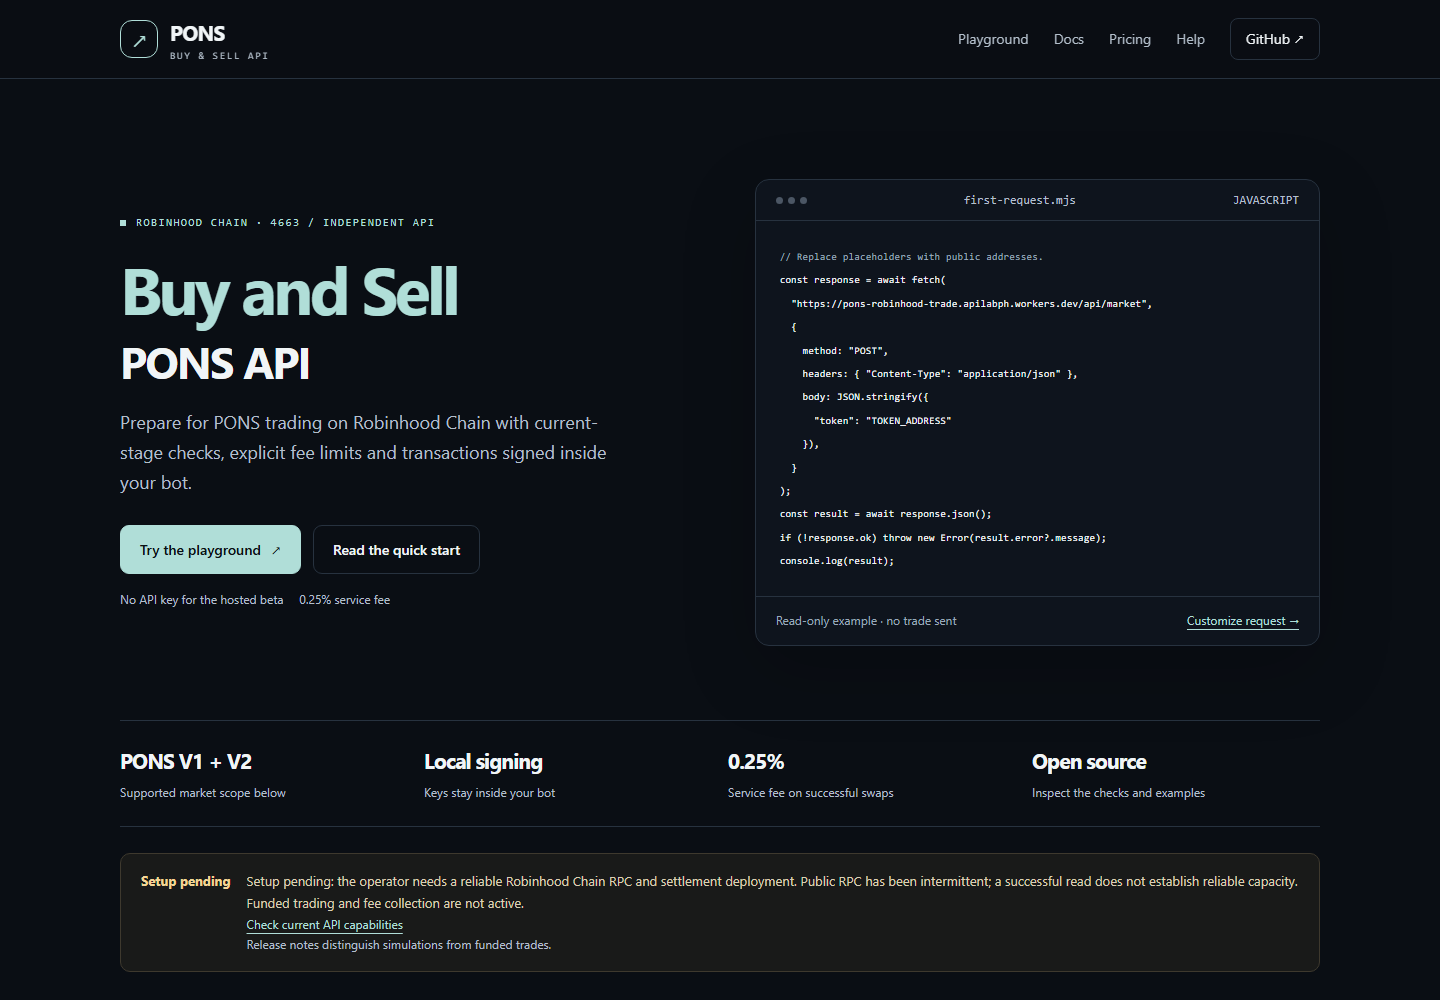
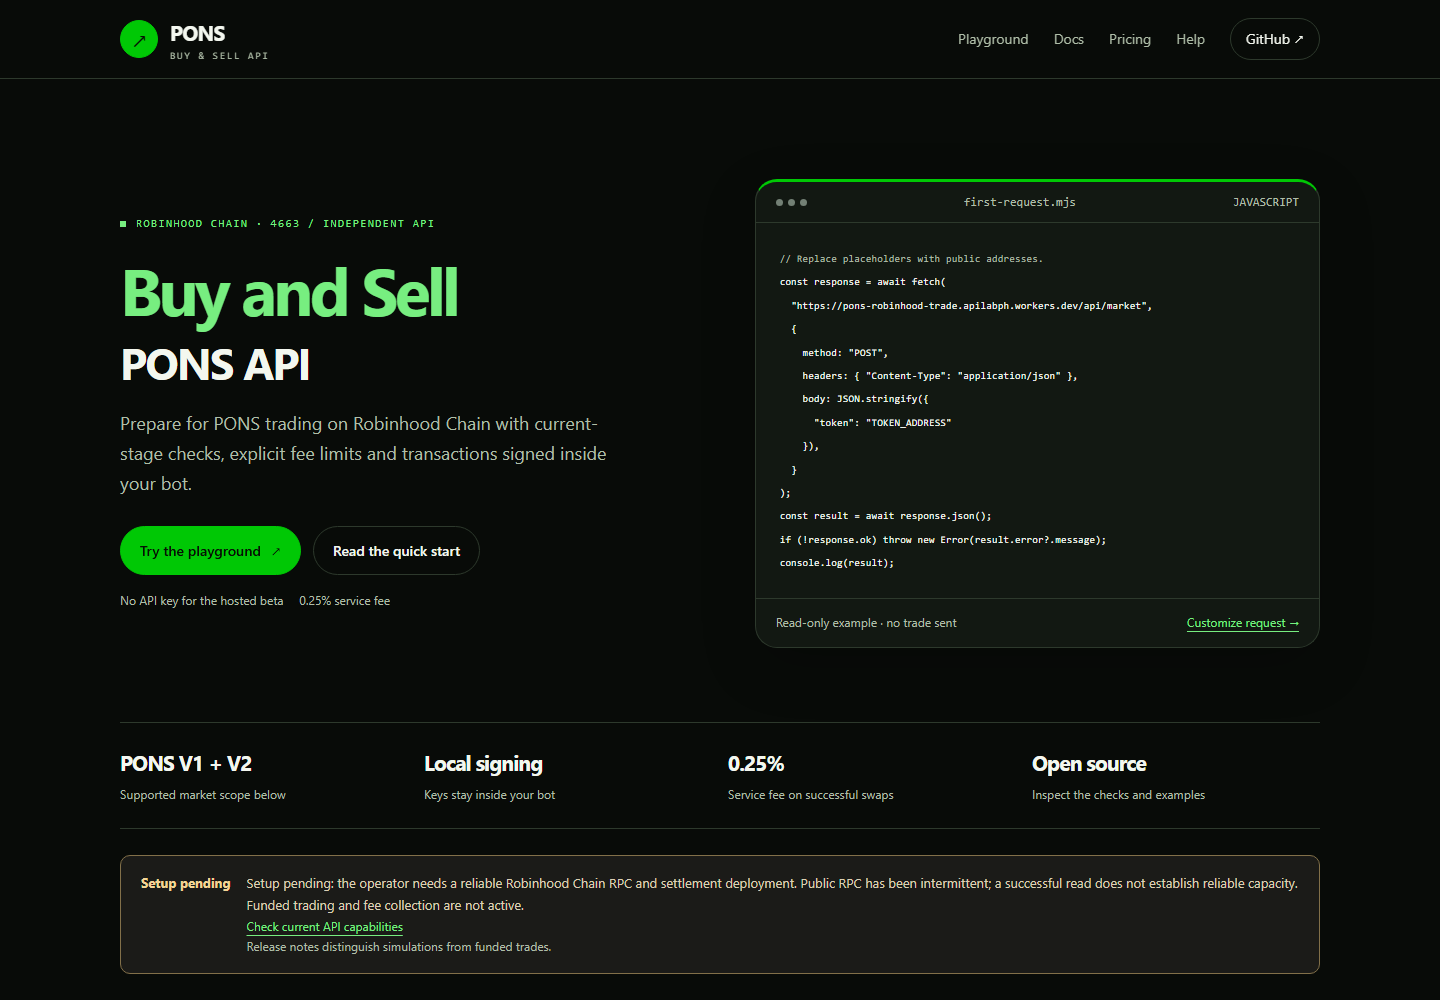
Match developer website theme to launchpad identity

diff --git a/website/style.css b/website/style.css
@@ -1,13 +1,28 @@
-:root {
+:root {
   color-scheme: dark;
-  --bg: #0a0e14;
-  --panel: #101720;
-  --line: #27323f;
-  --text: #f1f5f7;
-  --muted: #b3bfcb;
-  --accent: #aab8ff;
-  --accent-ink: #0a1014;
-  --radius: 18px;
+  --bg: #080b08;
+  --panel: #121812;
+  --surface: #0b100b;
+  --line: #2d392c;
+  --text: #f3f7ef;
+  --muted: #afbea8;
+  --accent: #77ee80;
+  --secondary: #bdff9f;
+  --action: #00c805;
+  --accent-ink: #071005;
+  --topbar: #080b08f5;
+  --control-border: #6f856a;
+  --comment: #afbea8;
+  --tab-bg: #16301a;
+  --window-dot: #738075;
+  --notice-bg: #1b1b18;
+  --notice-text: #dbcfb5;
+  --notice-title: #f3d597;
+  --notice-border: #827049;
+  --error: #ffb8ac;
+  --success: #b5e9d2;
+  --radius: 22px;
+  --button-radius: 999px;
   font-family:
     Inter,
     ui-sans-serif,
@@ -69,8 +84,8 @@ button:disabled {
   position: absolute;
   left: 16px;
   top: -80px;
-  background: var(--accent);
-  color: #000;
+  background: var(--action);
+  color: var(--accent-ink);
   padding: 10px;
   z-index: 10;
 }
@@ -79,7 +94,7 @@ button:disabled {
 }
 .topbar {
   border-bottom: 1px solid var(--line);
-  background: #0a0e14f5;
+  background: var(--topbar);
   position: sticky;
   top: 0;
   z-index: 5;
@@ -201,7 +216,7 @@ button:disabled {
   gap: 10px;
   text-decoration: none;
   border: 1px solid var(--line);
-  border-radius: 9px;
+  border-radius: var(--button-radius);
   padding: 12px 19px;
   color: var(--text);
   background: transparent;
@@ -210,9 +225,9 @@ button:disabled {
   min-height: 46px;
 }
 .button.primary {
-  background: var(--accent);
+  background: var(--action);
   color: var(--accent-ink);
-  border-color: var(--accent);
+  border-color: var(--action);
 }
 .button:hover {
   filter: brightness(1.12);
@@ -229,9 +244,9 @@ button:disabled {
 .editor {
   border: 1px solid var(--line);
   border-radius: 14px;
-  background: #0e141d;
+  background: var(--panel);
   overflow: hidden;
-  box-shadow: 0 24px 75px #0003;
+  box-shadow: 0 18px 55px #0003;
   min-width: 0;
 }
 .editor-top {
@@ -255,7 +270,7 @@ button:disabled {
   width: 7px;
   height: 7px;
   border-radius: 50%;
-  background: #4b5664;
+  background: var(--window-dot);
 }
 .editor pre {
   padding: 24px;
@@ -264,7 +279,7 @@ button:disabled {
   line-height: 1.95;
 }
 .comment {
-  color: #9aa9ba;
+  color: var(--comment);
 }
 .syntax {
   color: var(--accent);
@@ -317,15 +332,15 @@ code {
   gap: 16px;
   align-items: flex-start;
   font-size: 13px;
-  color: #dbcfb5;
-  background: #191a19;
-  border: 1px solid #3e392e;
+  color: var(--notice-text);
+  background: var(--notice-bg);
+  border: 1px solid var(--notice-border);
   border-radius: 10px;
   padding: 16px 20px;
 }
 .release b {
   white-space: nowrap;
-  color: #f3d597;
+  color: var(--notice-title);
 }
 .release p {
   margin: 0;
@@ -406,13 +421,17 @@ h3 {
 .field select {
   width: 100%;
   margin-top: 7px;
-  border: 1px solid #435262;
+  border: 1px solid var(--control-border);
   border-radius: 7px;
-  background: #0a1018;
+  background: var(--surface);
   color: var(--text);
   padding: 10px 12px;
   min-height: 44px;
   font-size: 13px;
+}
+.field input::placeholder {
+  color: var(--muted);
+  opacity: 1;
 }
 .field small {
   display: block;
@@ -449,7 +468,7 @@ h3 {
 }
 .tabs button[aria-pressed="true"] {
   color: var(--accent);
-  background: #ffffff09;
+  background: var(--tab-bg);
 }
 .code-area {
   padding: 24px;
@@ -482,7 +501,7 @@ h3 {
 .output pre {
   max-height: 320px;
   overflow: auto;
-  background: #0a1018;
+  background: var(--surface);
   padding: 14px;
   border-radius: 8px;
 }
@@ -492,17 +511,17 @@ h3 {
   margin: 10px 0;
 }
 .feedback.error {
-  color: #ffb8ac;
+  color: var(--error);
 }
 .feedback.success {
-  color: #b5e9d2;
+  color: var(--success);
 }
 .hint {
   font-size: 12px;
   line-height: 1.6;
   color: var(--muted);
   padding: 12px 14px;
-  background: #0a1018;
+  background: var(--surface);
   border-left: 2px solid var(--accent);
   border-radius: 0 6px 6px 0;
 }
@@ -590,10 +609,10 @@ h3 {
   font:
     10px ui-monospace,
     monospace;
-  border: 1px solid #545346;
+  border: 1px solid var(--notice-border);
   border-radius: 4px;
   padding: 3px 6px;
-  color: #ead296;
+  color: var(--notice-title);
   margin-left: 6px;
   white-space: nowrap;
 }
@@ -702,7 +721,7 @@ footer {
   display: none !important;
 }
 .noscript {
-  border: 1px solid #d0a75a;
+  border: 1px solid var(--notice-border);
   padding: 16px;
 }
 .key-points {
@@ -914,6 +933,28 @@ footer {
   }
 }
 
-:root {
-  --accent: #b0ded8;
+/* Visual reference: https://ponsfamily.com/launchpad. Independent APILabPH integration. */
+.brand,
+.hero h1,
+.section-head h2 {
+  font-family: ui-rounded, "Arial Rounded MT Bold", system-ui, sans-serif;
+}
+.mark,
+.navlinks .gh {
+  border-radius: 999px;
+}
+.mark {
+  background: var(--action);
+  color: var(--accent-ink);
+  border-color: var(--action);
+}
+.hero-action {
+  color: var(--accent);
+}
+.hero-product {
+  color: var(--text);
+}
+.editor {
+  border-radius: 22px;
+  border-top: 3px solid var(--action);
 }

diff --git a/website/config.js b/website/config.js
@@ -7,10 +7,10 @@ export const config = {
   native: "ETH",
   evm: true,
   pons: true,
-  accent: "#b0ded8",
+  accent: "#77ee80",
   port: 8815,
   fee: "0x6A17d358ae138A726b4dda7A95C104440AAdb2DB",
-  hero: "PONS integration.<br>Clear trade intent.<br><span>Your own signer.</span>",
+  hero: "Buy and Sell PONS API",
   lead: "Prepare for PONS trading on Robinhood Chain with current-stage checks, explicit fee limits and transactions signed inside your bot.",
   status:
     "Setup pending: the operator needs a reliable Robinhood Chain RPC and settlement deployment. Public RPC has been intermittent; a successful read does not establish reliable capacity. Funded trading and fee collection are not active.",

diff --git a/website/index.html b/website/index.html
@@ -8,7 +8,7 @@
       name="description"
       content="Prepare for PONS trading on Robinhood Chain with current-stage checks, explicit fee limits and transactions signed inside your bot. Guided examples, supported markets and transparent 0.25% fees."
     />
-    <meta name="theme-color" content="#0a0e14" />
+    <meta name="theme-color" content="#080b08" />
     <link
       rel="canonical"
       href="https://pons-robinhood-trade.apilabph.workers.dev/"

diff --git a/website/README.md b/website/README.md
@@ -28,11 +28,19 @@ The playground uses a small local proxy because the production Solana APIs do no
 
 The browser never connects to a wallet. The trade option generates build code; it does not execute a build or trade. Current status and coverage text are explicit editorial content in website/index.html and website/config.js. Update them only after verifying the corresponding release.
 
+## Visual theme
+
+A dark canvas, green headings and bright green rounded actions, as requested by the owner. References: the green controls and rounded presentation of the [official PONS website](https://ponsfamily.com/launchpad), and the dark presentation of [Robinhood Chain](https://robinhood.com/chain), inspected in Edge on October 13, 2026. The palette is a design reference, not an affiliation claim. APILabPH keeps its own arrow mark, copy, examples and independent-integration identity.
+
+Theme variables in `website/style.css` cover the page, navigation, controls, code panels, notices and feedback. The browser theme color, favicon and config accent match. Light text and green links remain readable on the dark surfaces; filled green controls use dark text. System fonts keep the preview self-contained without external font requests.
+
 ## Checks and evidence
 
 Run `npm run site:check` for request-generation, public-address/amount validation, string escaping, read-only proxy, origin restrictions and credential-field rejection tests. These seven cases also run under `npm test`.
 
 All five local sites were checked in installed Microsoft Edge via Playwright at 1440×1000 and 390×844. Code tabs, operation changes, exact sell amounts, disabled browser trade submission, success/error guidance and FAQ interaction passed with no JavaScript errors or horizontal overflow. UI success/error cases use mocked responses; see docs/evidence/website-local-browser.json. Screenshots are in docs/evidence/website-desktop.png and website-mobile.png.
+
+The launchpad theme revision was also checked at widths 320, 390, 760, 768, 1024 and 1440 pixels. All kept the headline visible without horizontal overflow. Sampled text contrast was at least 8.54:1; the checked input border was 4.79:1 and placeholder text was 9.84:1. See docs/evidence/website-theme-review.json. These are targeted layout and contrast checks, not a complete accessibility audit.
 
 Actual read-only calls through the local proxy are recorded separately in website-local-readback.json. These do not prove a funded trade or reliable production capacity. No private keys were used.
 
